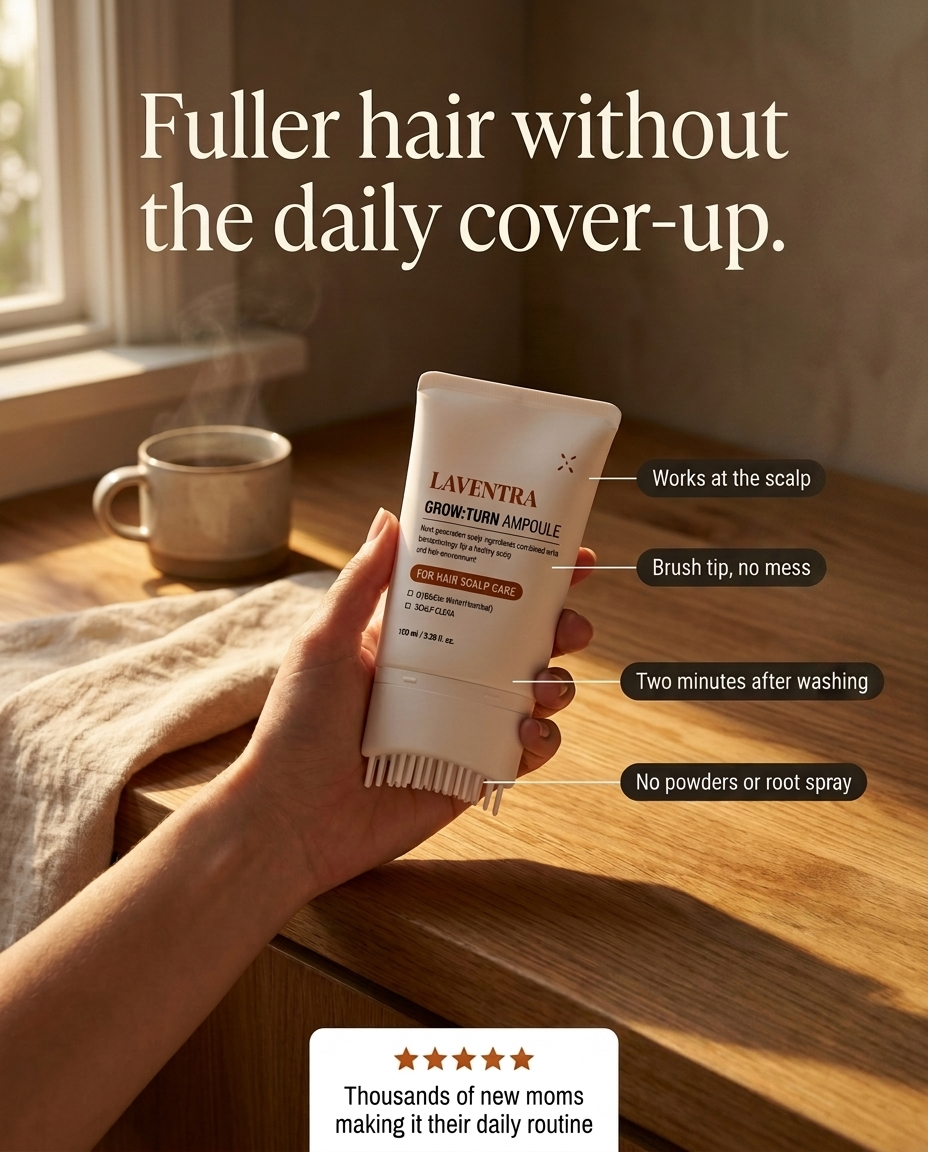
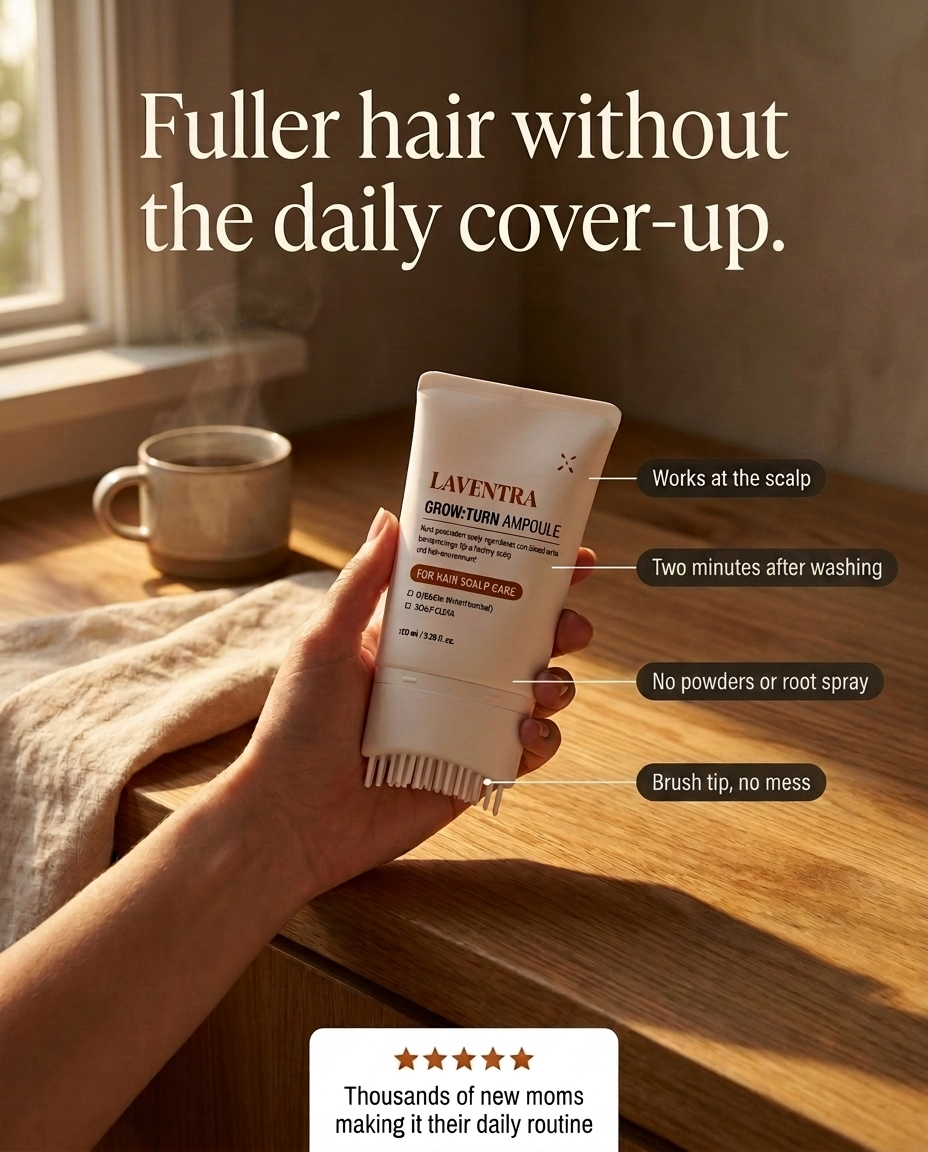
h06: point the brush-tip callout at the brush tip
"Brush tip, no mess" had its leader line landing on the middle of the tube's
printed label, while the line that did reach the comb teeth was "No powders or
root spray" — a claim with nothing to do with them. The one callout naming a
real physical part was aimed at the wrong part, and the wrong callout owned the
right spot.

Re-anchoring alone was not enough: the comb teeth are the lowest feature on the
tube, so "Brush tip, no mess" had to become the bottom label or its line would
cross the other three. Stack order is now Works at the scalp / Two minutes after
washing / No powders or root spray / Brush tip, no mess, and the bottom line
terminates on the bristles themselves.

Done as an edit on the existing image so the scene, framing, typography and
trust card carry over unchanged. The tube's small print stays garbled, as it has
been since the woman was edited out — editing re-renders the product each pass.
The variant with a real composited label is still at out_gemini/h06_variants/.

Also added --instruction-file to edit_image.py; a multi-line instruction passed
inline breaks shell quoting and silently produced no output.

Claude-Session: https://claude.ai/code/session_01R1vXTmH9kjCZ2FRqEWjhNK

Changed region(s): [[0.6562, 0.5625, 0.9375, 0.625], [0.6875, 0.4688, 0.9688, 0.5312], [0.6562, 0.6562, 0.9375, 0.7188]]

diff --git a/.workspace/edit_image.py b/.workspace/edit_image.py
@@ -35,17 +35,26 @@ PRESERVE = (
 def main():
     ap = argparse.ArgumentParser()
     ap.add_argument("--image", required=True)
-    ap.add_argument("--instruction", required=True)
+    ap.add_argument("--instruction", default="")
+    ap.add_argument("--instruction-file", default="",
+                    help="read the instruction from a file (avoids shell quoting issues)")
     ap.add_argument("--out", required=True)
     ap.add_argument("--aspect-ratio", default="")
     ap.add_argument("--ref", default="", help="second image, e.g. the real product photo")
     a = ap.parse_args()
 
+    instruction = a.instruction
+    if a.instruction_file:
+        with open(a.instruction_file) as f:
+            instruction = f.read()
+    if not instruction.strip():
+        sys.exit("need --instruction or --instruction-file")
+
     key = get_key()
     parts = [b64_image_part(a.image)]
     if a.ref:
         parts.append(b64_image_part(a.ref))
-    parts.append({"text": a.instruction + PRESERVE})
+    parts.append({"text": instruction + PRESERVE})
     payload = {"contents": [{"parts": parts}]}
     if a.aspect_ratio:
         payload["generationConfig"] = {
